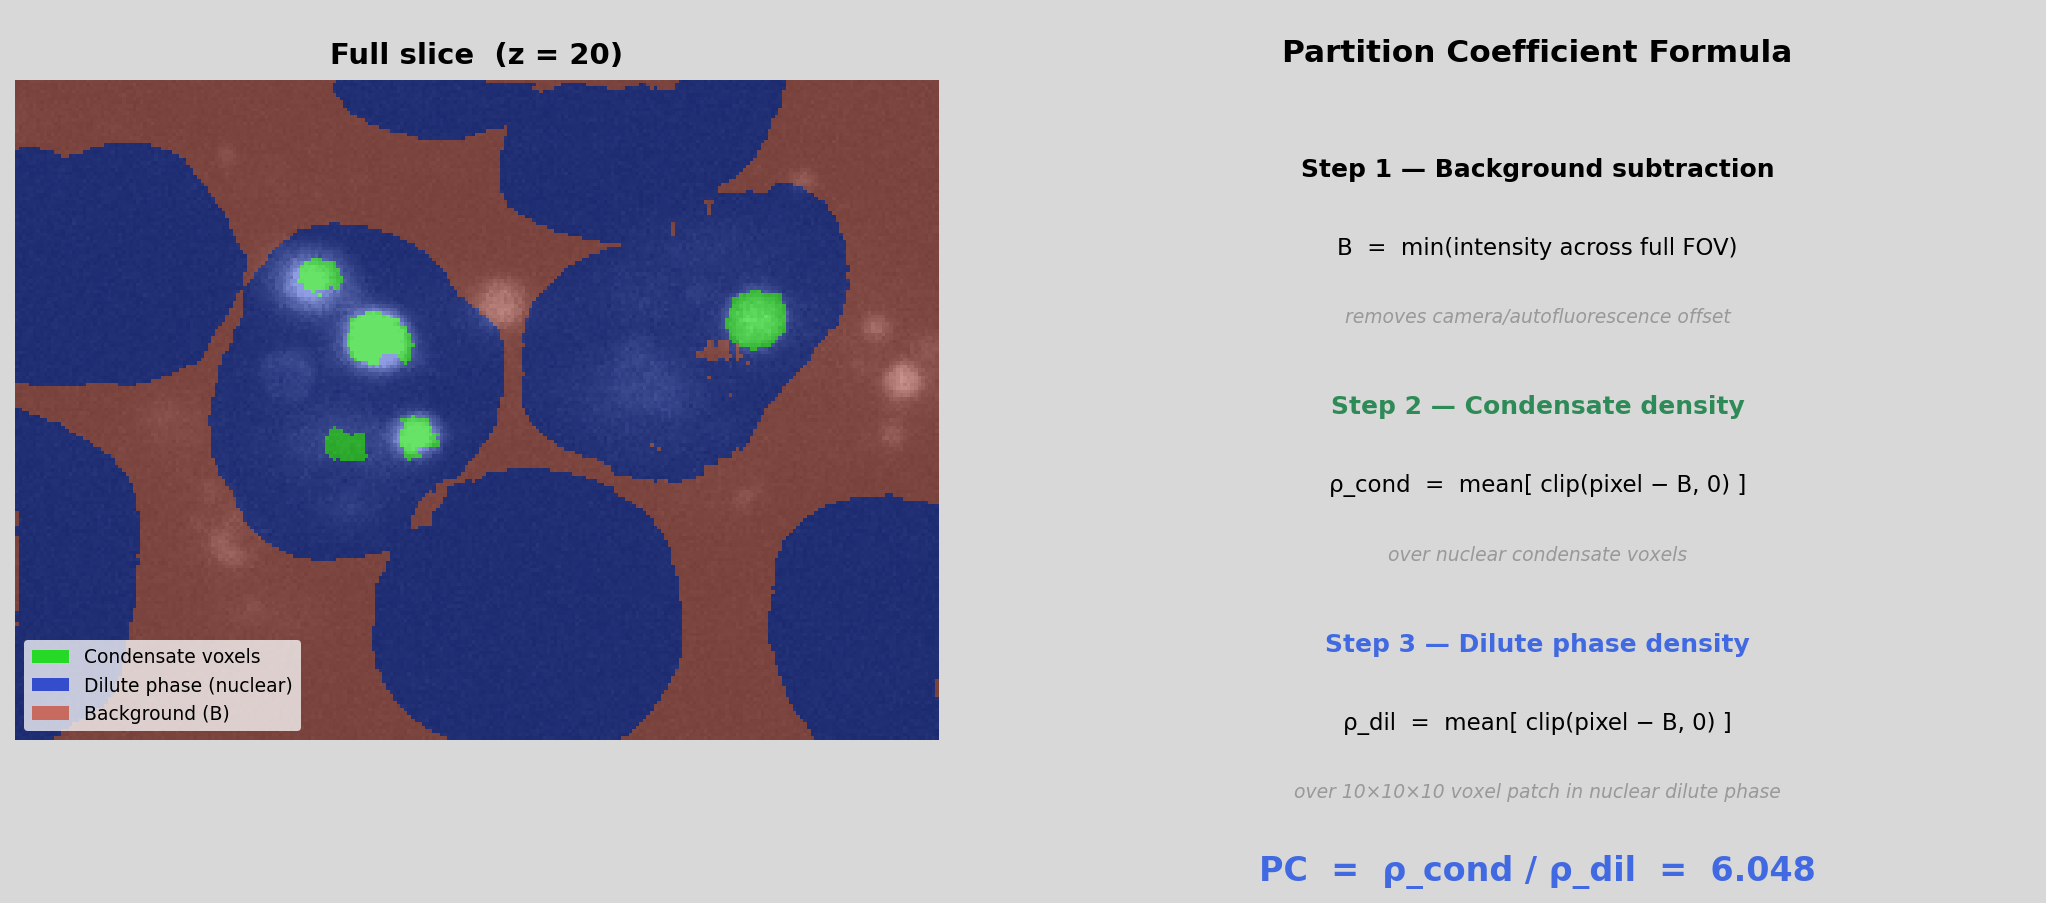
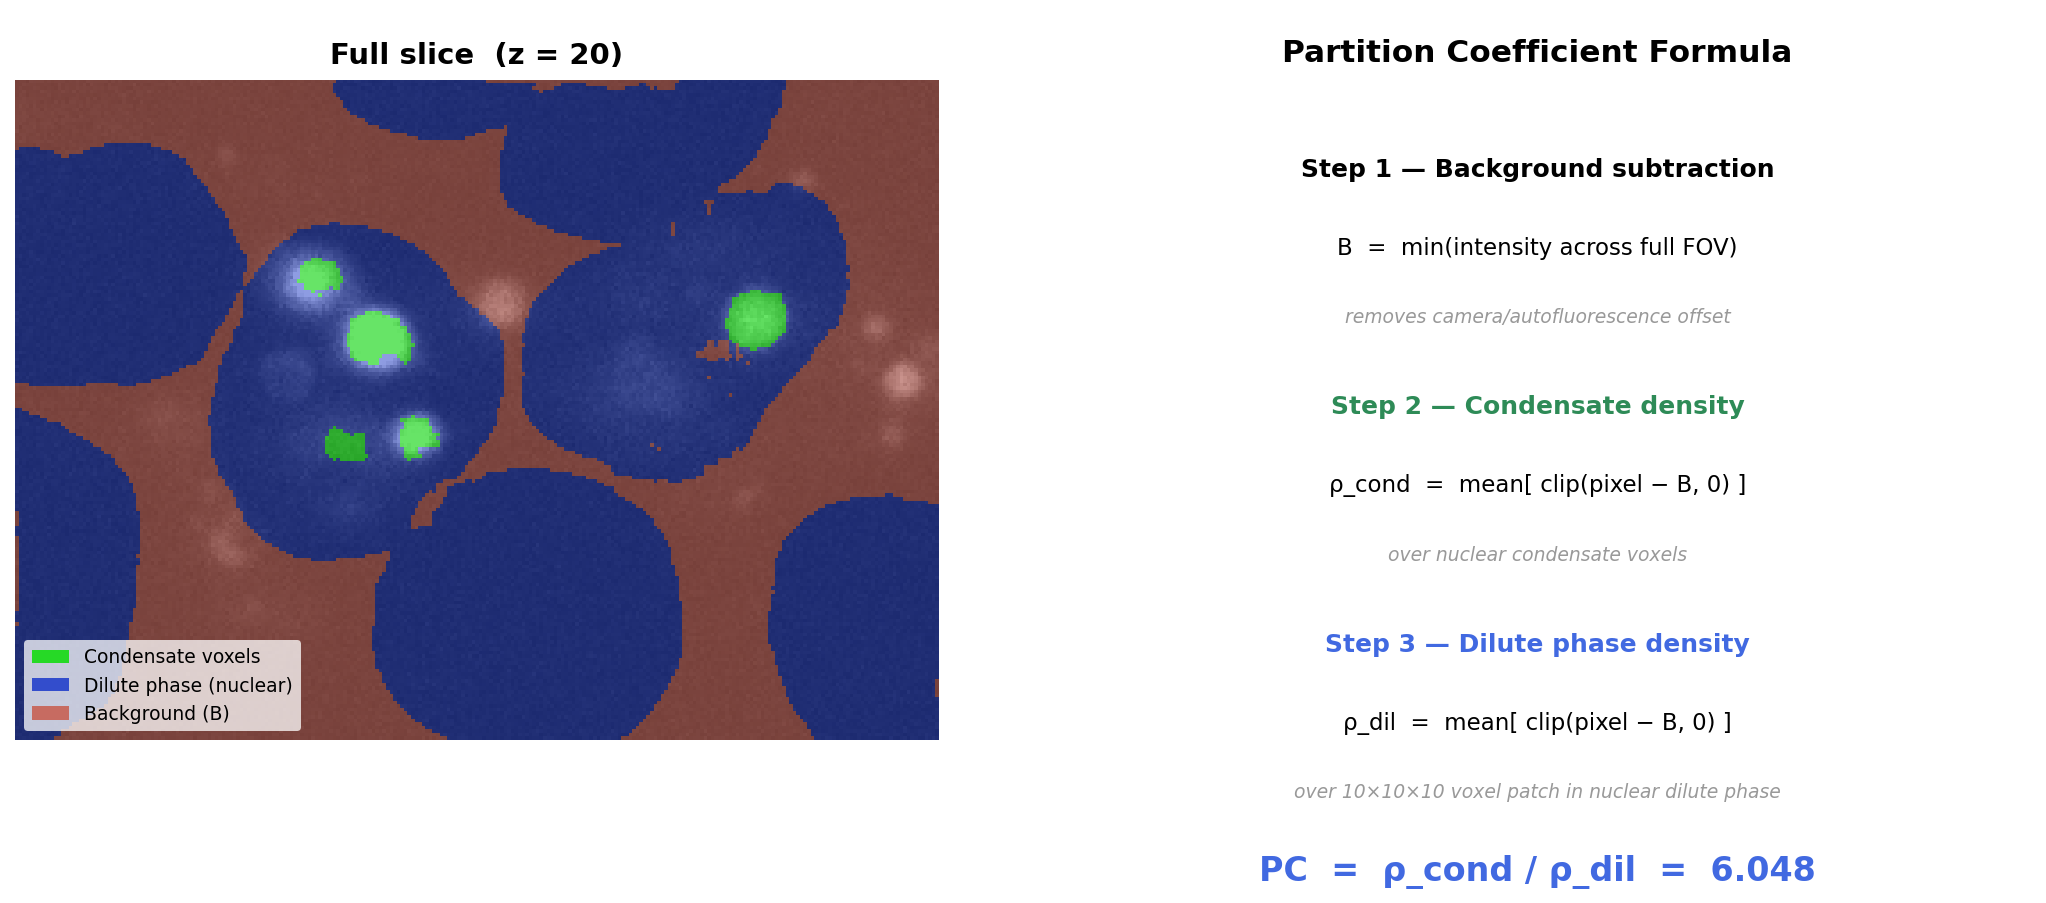
Change slide_08 background to white

diff --git a/spring_implementation/make_slide_08.py b/spring_implementation/make_slide_08.py
@@ -110,10 +110,10 @@ def main():
     nuc_mask  = nuc_masks_3d[Z_SLICE]  > 0
     rgb       = make_overlay(raw, cond_mask, nuc_mask)
 
-    fig = plt.figure(figsize=(14, 6), facecolor="#d8d8d8")
+    fig = plt.figure(figsize=(14, 6), facecolor="white")
     ax_img  = fig.add_axes([0.02, 0.13, 0.44, 0.82])
     ax_form = fig.add_axes([0.51, 0.10, 0.47, 0.88])
-    ax_form.set_facecolor("#d8d8d8")
+    ax_form.set_facecolor("white")
 
     ax_img.imshow(rgb)
     ax_img.set_title(f"Full slice  (z = {Z_SLICE})", fontsize=14,